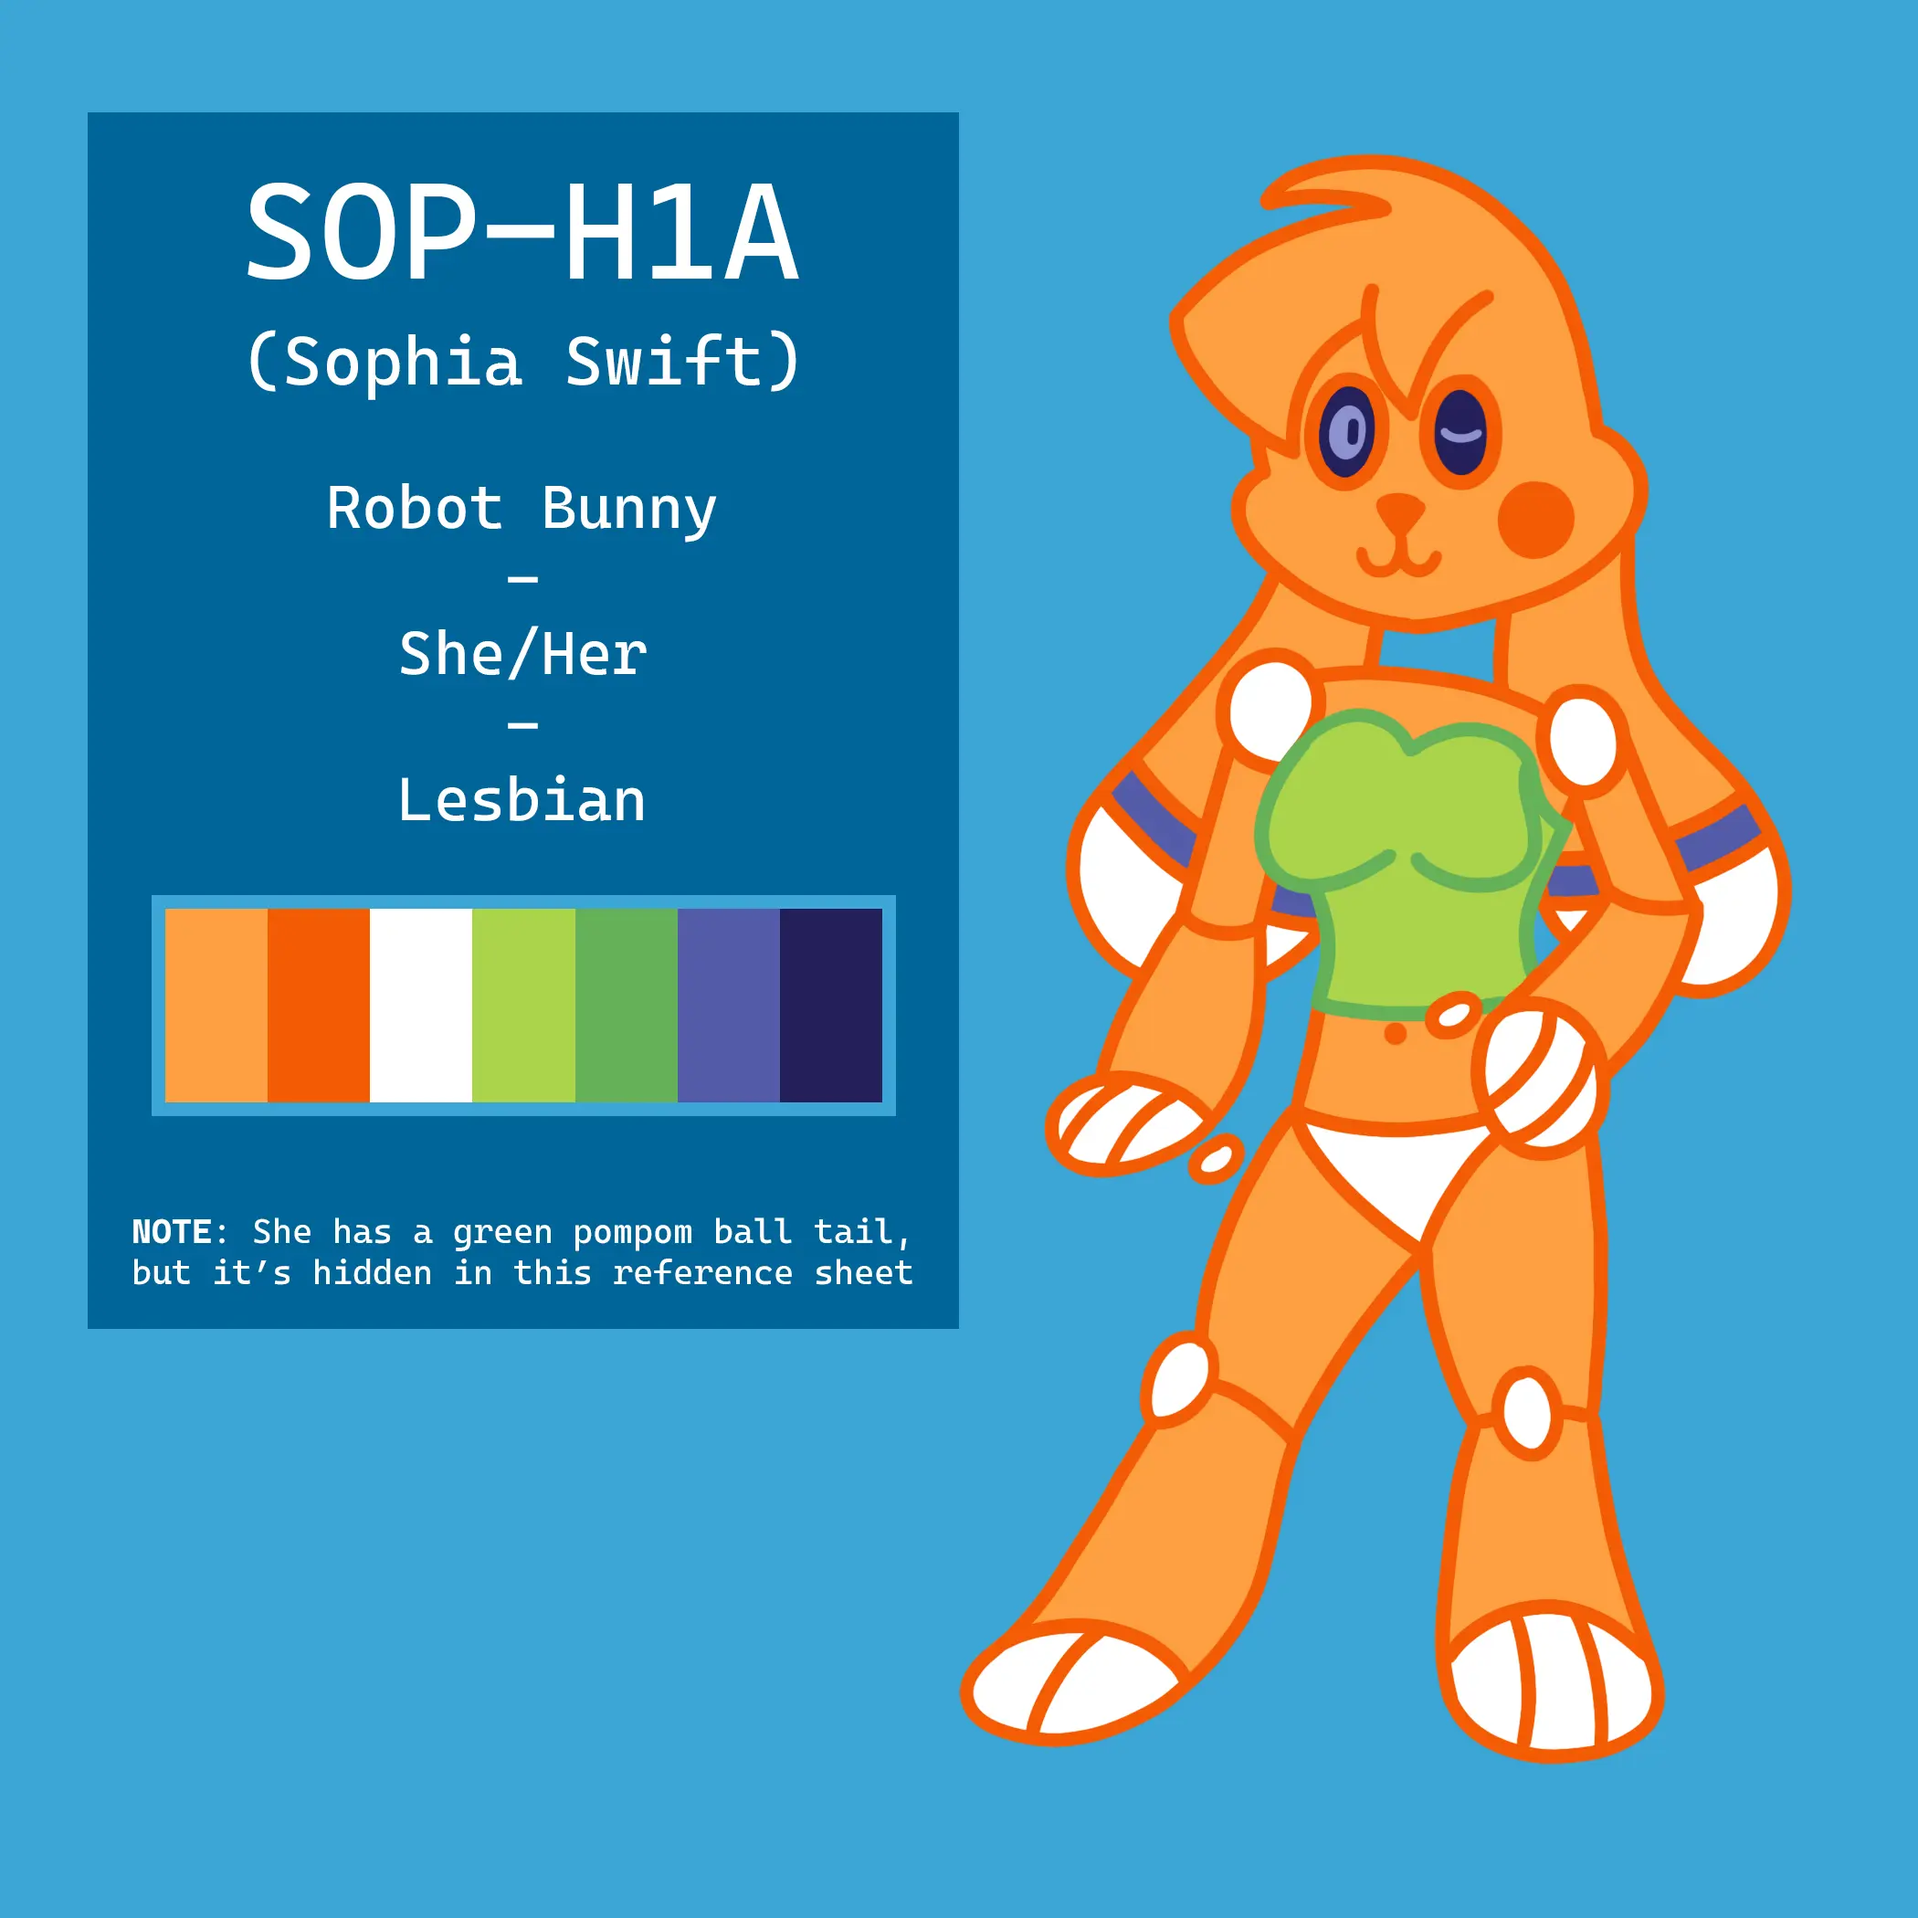
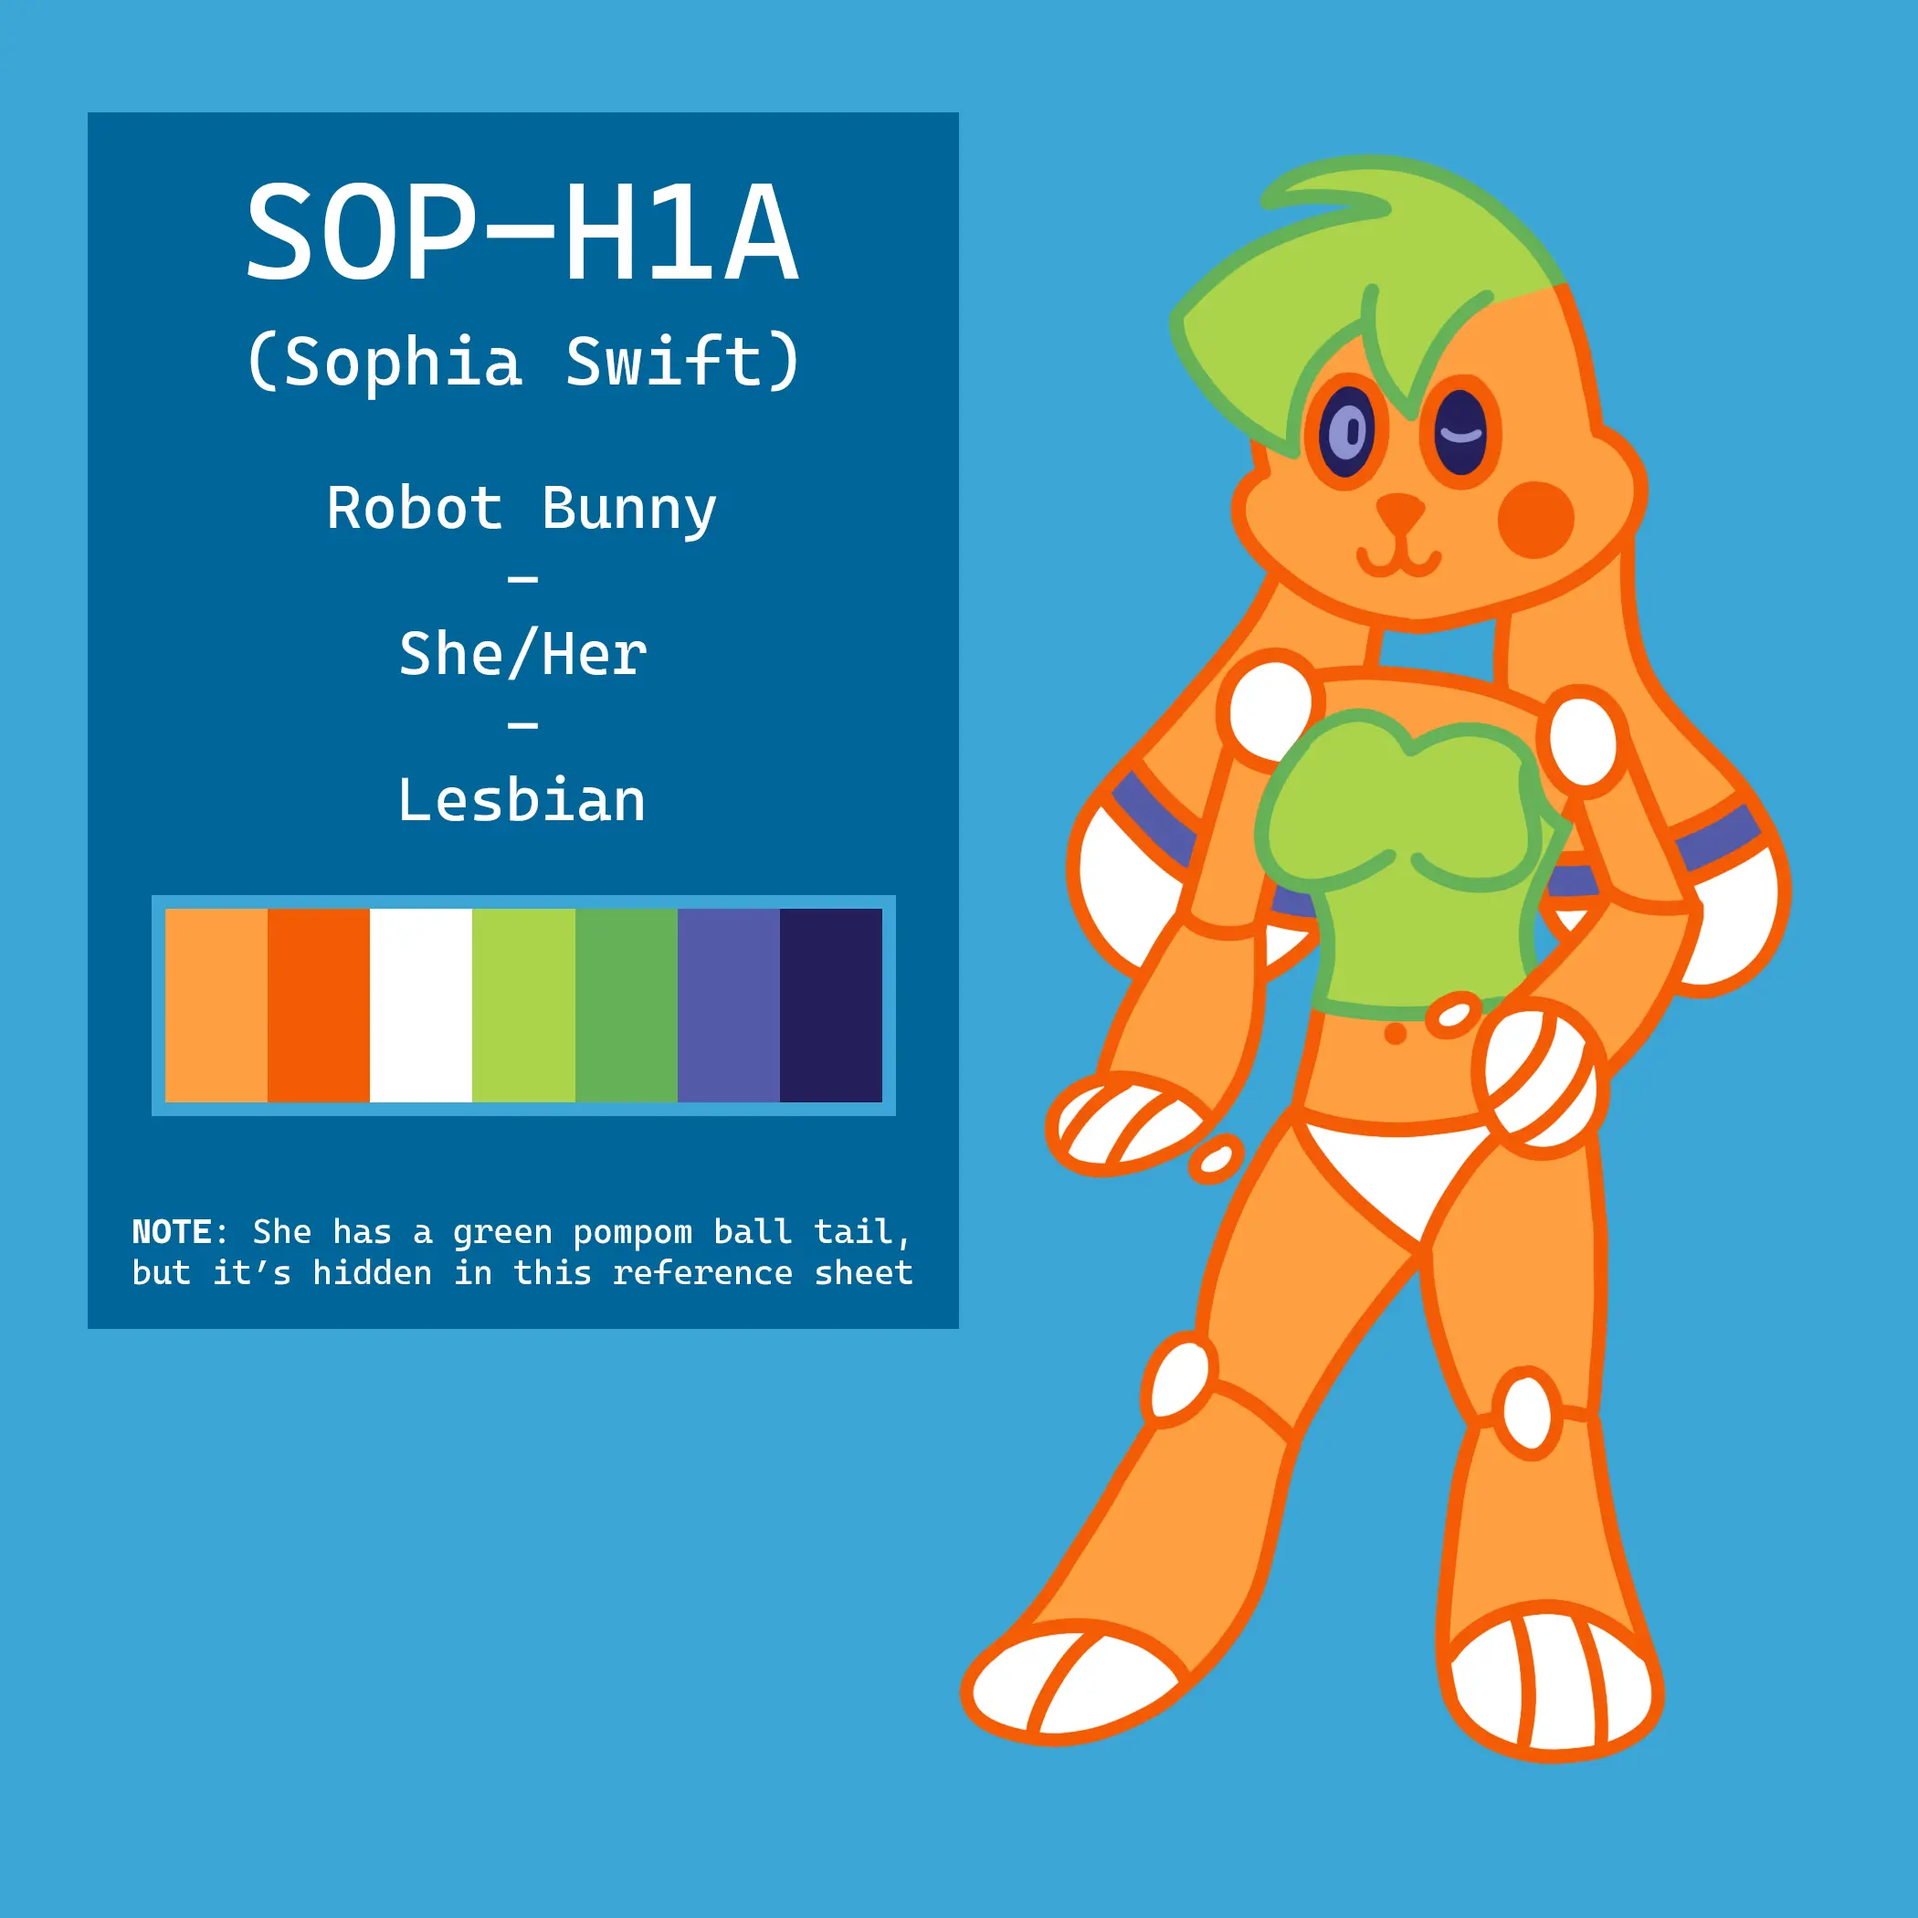
2 Changes - Add image OnClick Behaviour - Revise SOP-H1A Drawing

Changed region(s): [[0.5881, 0.0619, 0.8357, 0.2476]]

diff --git a/art.html b/art.html
@@ -24,25 +24,29 @@
           <h1>Art Hall of Fame</h1>
           <div class="grid-container">
             <figure>
-              <img src="./art/Mato-Birthday.png" loading="lazy" alt="Mato's Birthday Gift" width="300" height="300">
+              <img src="./art/Mato-Birthday.png" loading="lazy" alt="Mato's Birthday Gift"
+                onclick="window.open('./art/Mato-Birthday.png', '_blank');" width="300" height="300">
               <figcaption>Gift art for <a href="https://twitter.com/MatoCookies">@MatoCookies</a></figcaption>
             </figure>
           </div>
           <div class="grid-container">
             <figure>
-              <img src="./art/Dania Pixel 2.png" loading="lazy" alt="Dania Pixel 2" width="300" height="300">
+              <img src="./art/Dania Pixel 2.png" loading="lazy" alt="Dania Pixel 2"
+                onclick="window.open('./art/Dania Pixel 2.png', '_blank');" width="300" height="300">
               <figcaption>Pixel art of my Fursona D4-N14 (Dania Ascii)</figcaption>
             </figure>
           </div>
           <div class="grid-container">
             <figure>
-              <img src="./art/Mark III.webp" loading="lazy" alt="Dania Ascii Mark III" width="450" height="300">
+              <img src="./art/Mark III.webp" loading="lazy" alt="Dania Ascii Mark III"
+                onclick="window.open('./art/Mark III.webp', '_blank');" width="450" height="300">
               <figcaption>Reference sheet of my Fursona's current design</figcaption>
             </figure>
           </div>
           <div class="grid-container">
             <figure>
-              <img src="./art/Sophia.webp" loading="lazy" alt="Sophia Swift" width="300" height="300">
+              <img src="./art/Sophia.webp" loading="lazy" alt="Sophia Swift"
+                onclick="window.open('./art/Sophia.webp', '_blank');" width="300" height="300">
               <figcaption>Reference sheet of one of my OCs. She's Dania's girlfriend</figcaption>
             </figure>
           </div>
